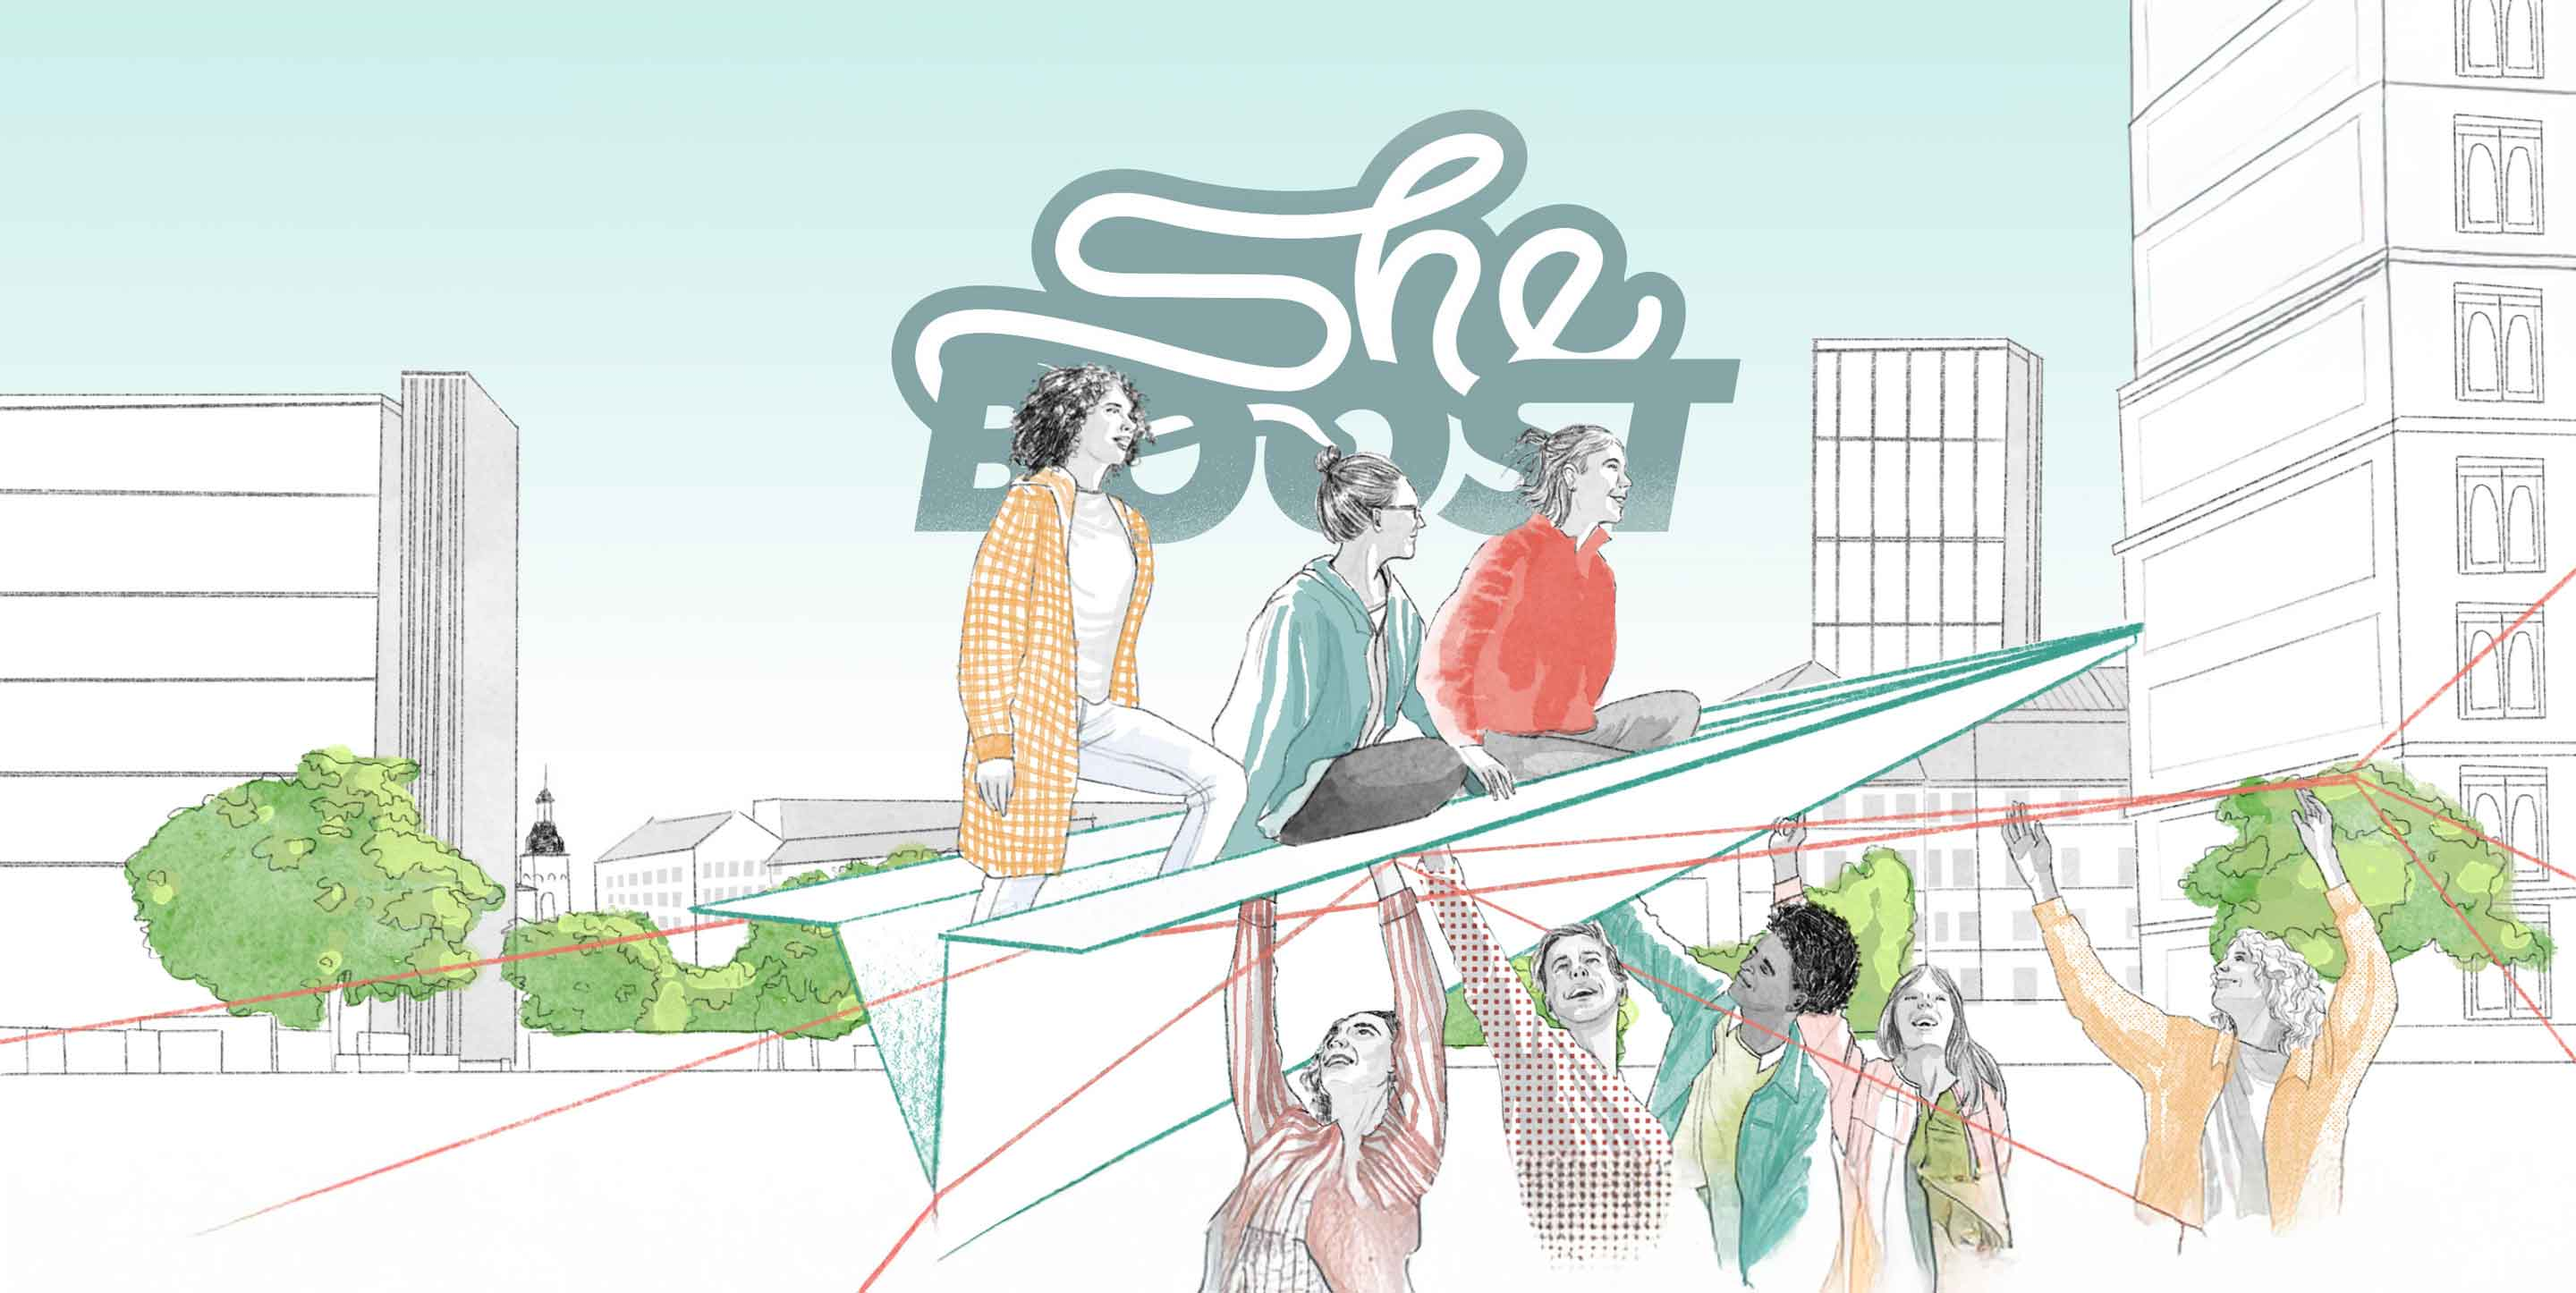
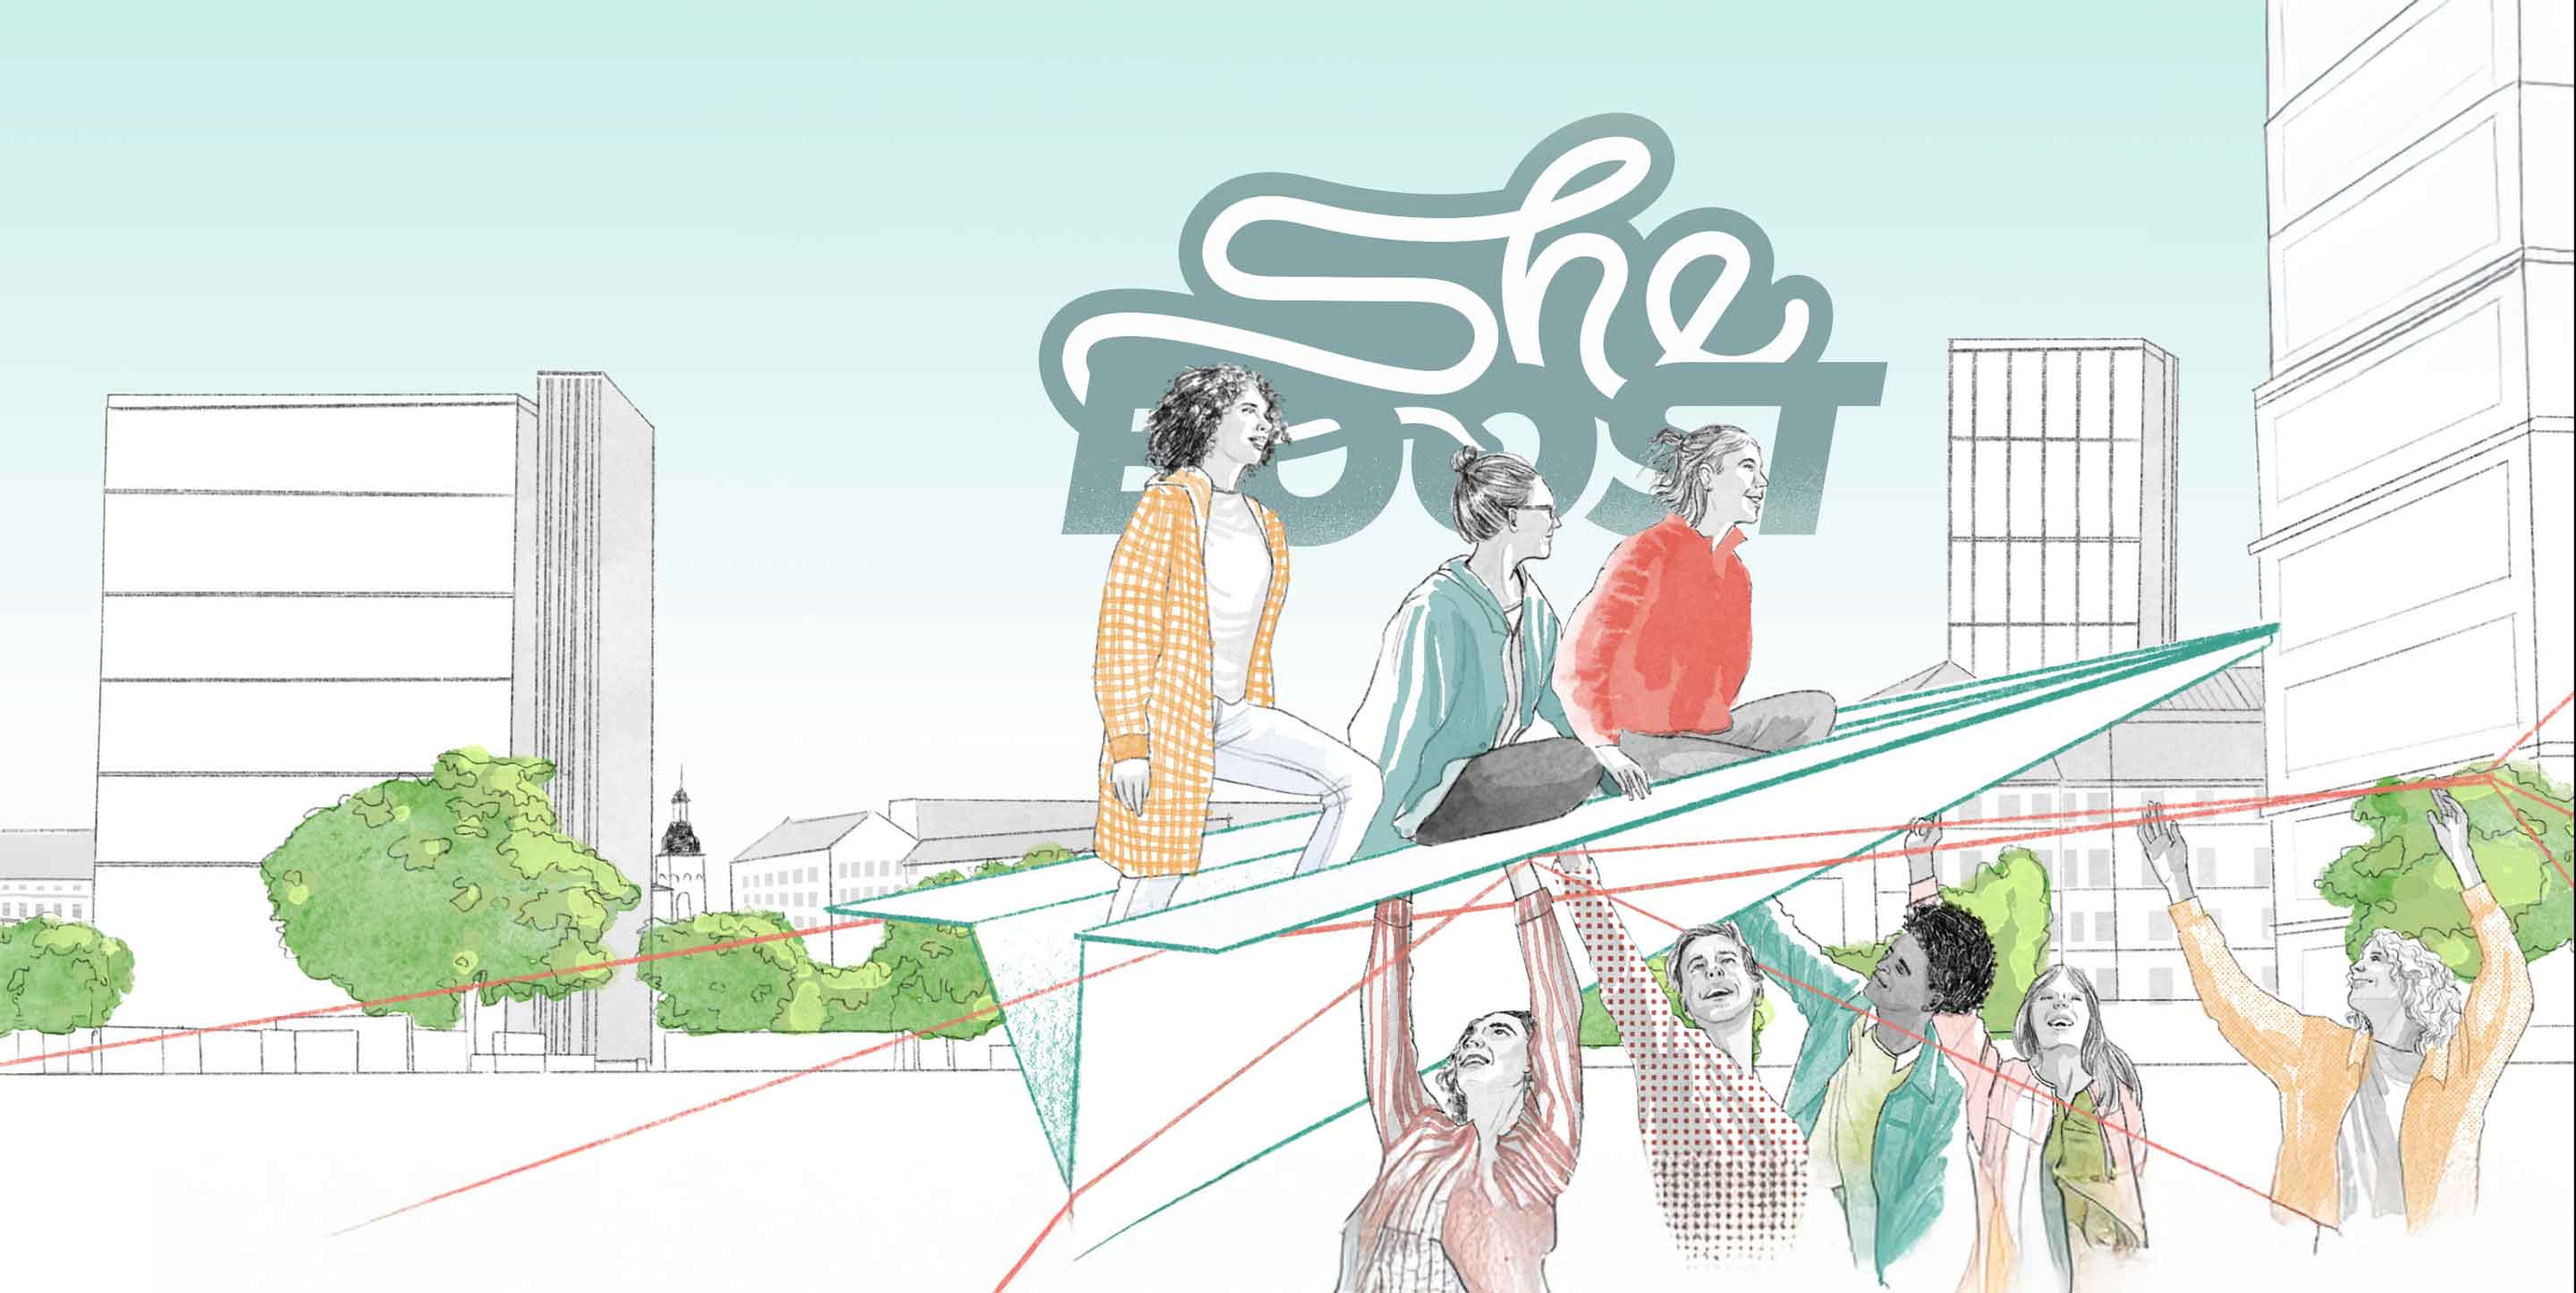
improved and wording

diff --git a/app/assets/stylesheets/controllers/_info_sheboost.scss b/app/assets/stylesheets/controllers/_info_sheboost.scss
@@ -14,12 +14,20 @@ section.info {
 
       .header-media {
         width: 100%;
-        img {
-          display: block;
-          width: 100%;
-          height: clamp(240px, 70vw, 420px);
-          object-fit: cover;
-          object-position: center center;
+        background-image: image-url("info/sheboost/header-mob.jpg");
+        background-position: center -20px;
+        background-repeat: no-repeat;
+        background-size: cover;
+        height: clamp(320px, 90vw, 560px);
+
+        @include respond-to(">=medium") {
+          background-image: image-url("info/sheboost/header-desk.jpg");
+          background-position: 30% 20%;
+          height: 100%;
+        }
+
+        @include respond-to(">=large") {
+          background-position: 50% 20%;
         }
       }
 
@@ -27,8 +35,8 @@ section.info {
         text-align: left;
         background-color: white;
         min-width: 320px;
-        max-width: 440px;
-        width: 36%;
+        max-width: 450px;
+        width: 45%;
         padding:20px;
         z-index: 2;
         @include respond-to("<=medium") {
@@ -37,30 +45,49 @@ section.info {
           margin: 20px auto 20px auto;
           padding: 20px;
           max-width: 100%;
+          margin-top:-50px;
         }
 
         h1 {
+          margin:auto;
           font-family: $font-primary;
           line-height: 1.1;
-          color: #333;
           background: none;
           text-shadow: none;
-          font-weight:bold;
+          font-weight:900;
           font-size: 4.6rem;
           padding:0;
           padding-bottom:10px;
           hyphens: auto;
           word-break: break-word;
+          color: #333;
+          span {
+            font-size: 3.5rem;
+            display: block;
+            margin-top:20px;
+            margin-bottom:20px;
+          }
           @include respond-to("<large") {
             font-size: 3.6rem;
+            span {
+              font-size: 3.0rem;
+            }
           }
           @include respond-to("<=medium") {
             font-size: 3rem;
+            span {
+              font-size: 2.5rem;
+            }
           }
         }
 
-        p {
-          @include font-size-primaryFont('large');
+        h3 {
+          text-align: center;
+          color: $color-ambient-rosa;
+          font-size: 3.8rem;
+          font-family: $font-tertiary;
+          font-weight: bold;
+          padding-bottom: 0px;
         }
       }
 
@@ -70,14 +97,6 @@ section.info {
         justify-content: flex-start;
         height: 600px;
 
-        .header-media {
-          height: 100%;
-          img {
-            height: 100%;
-            object-position: left center;
-          }
-        }
-
         .cardBox {
           position: absolute;
           top: 50%;
@@ -85,8 +104,9 @@ section.info {
           transform: translateY(-50%);
         }
       }
+      
       @include respond-to(">=large") {
-      height: 700px;
+        height: 700px;
       }
 
     }
@@ -221,7 +241,7 @@ section.info {
 
 // About block (outside main hero scope)
 .sheboost-about-block {
-  background: #e6eee9;
+  background: #eaf2f4;
   clip-path: polygon(0% 0%,100% 0%,100% calc(100% - 10px),95% 100%,90% calc(100% - 10px),85% 100%,80% calc(100% - 10px),75% 100%,70% calc(100% - 10px),65% 100%,60% calc(100% - 10px),55% 100%,50% calc(100% - 10px),45% 100%,40% calc(100% - 10px),35% 100%,30% calc(100% - 10px),25% 100%,20% calc(100% - 10px),15% 100%,10% calc(100% - 10px),5% 100%,0% calc(100% - 10px));
 
   .icon {
